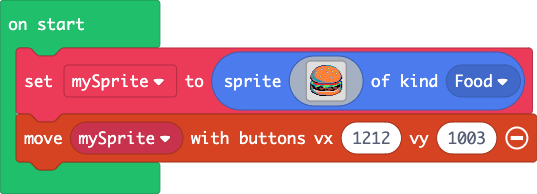
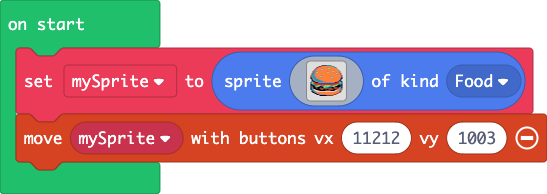
Update main.blocks, main.ts

diff --git a/main.ts b/main.ts
@@ -32,4 +32,4 @@ f 6 6 d d f f f f f e e e f f e f f e e e e e f f e e d b 4 6 e
 . . . . . . . . . f f f f f f f c c c c c e e . . . . . . . . . 
 . . . . . . . . . . . . . . . . . . . . . . . . . . . . . . . . 
 `, SpriteKind.Food)
-controller.moveSprite(mySprite, 1212, 1003)
+controller.moveSprite(mySprite, 11212, 1003)
